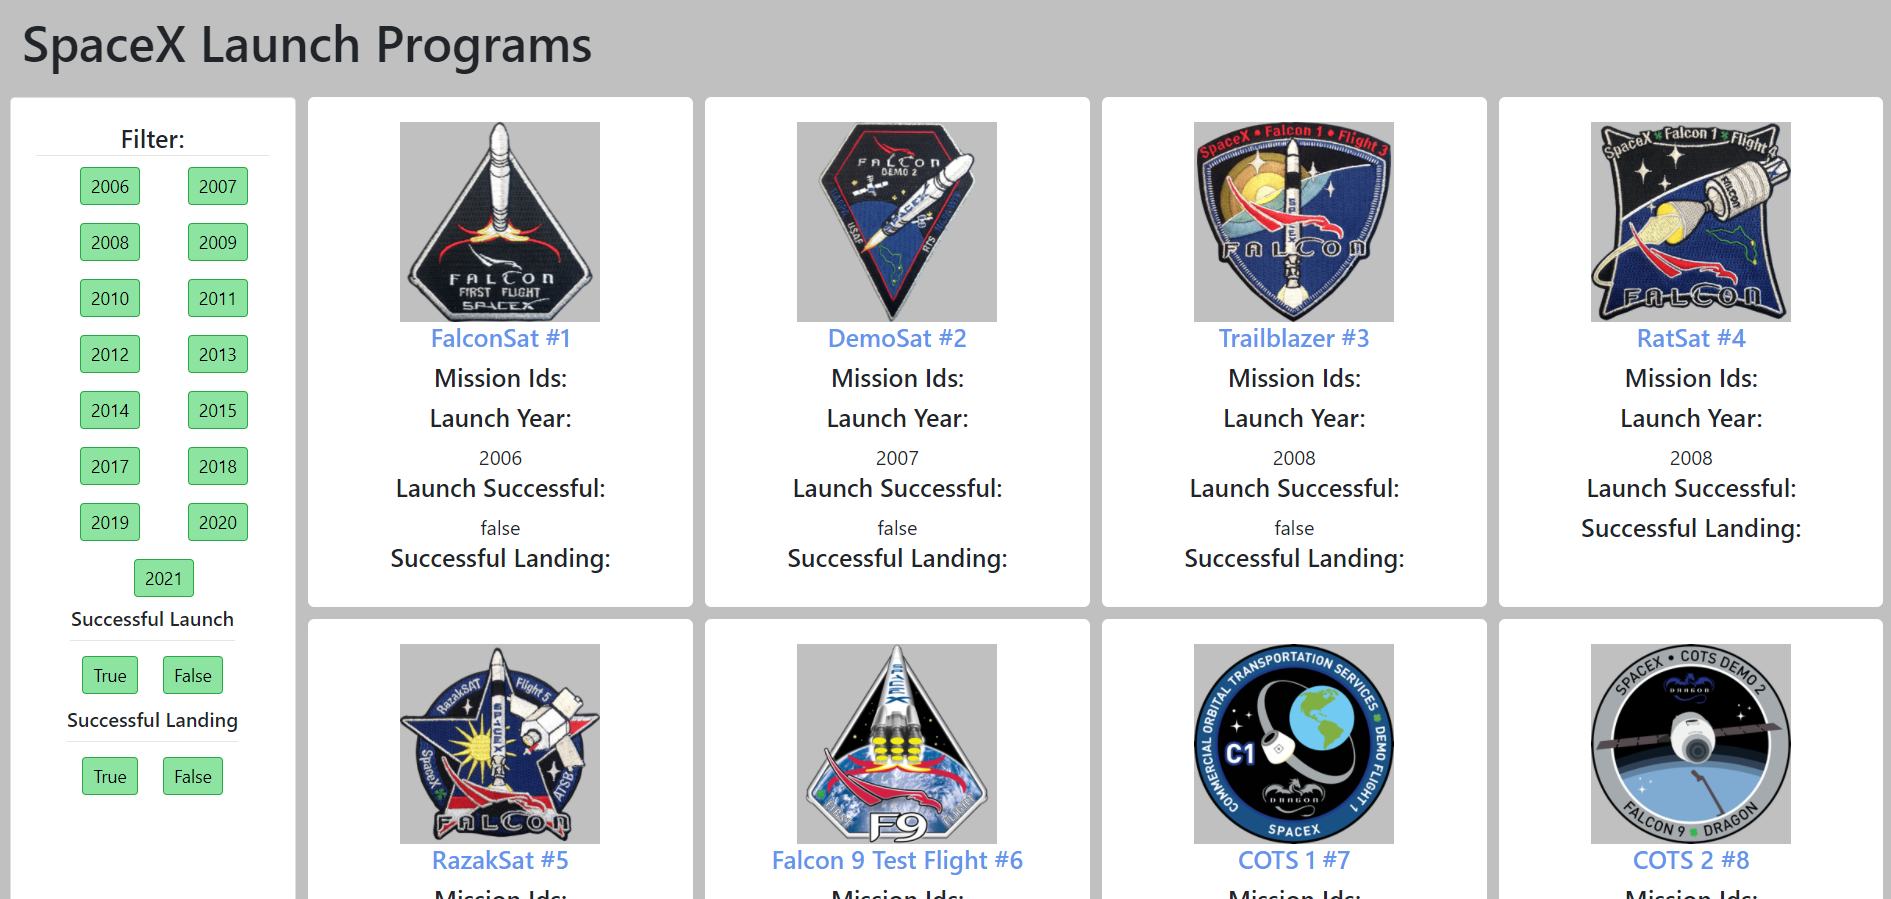
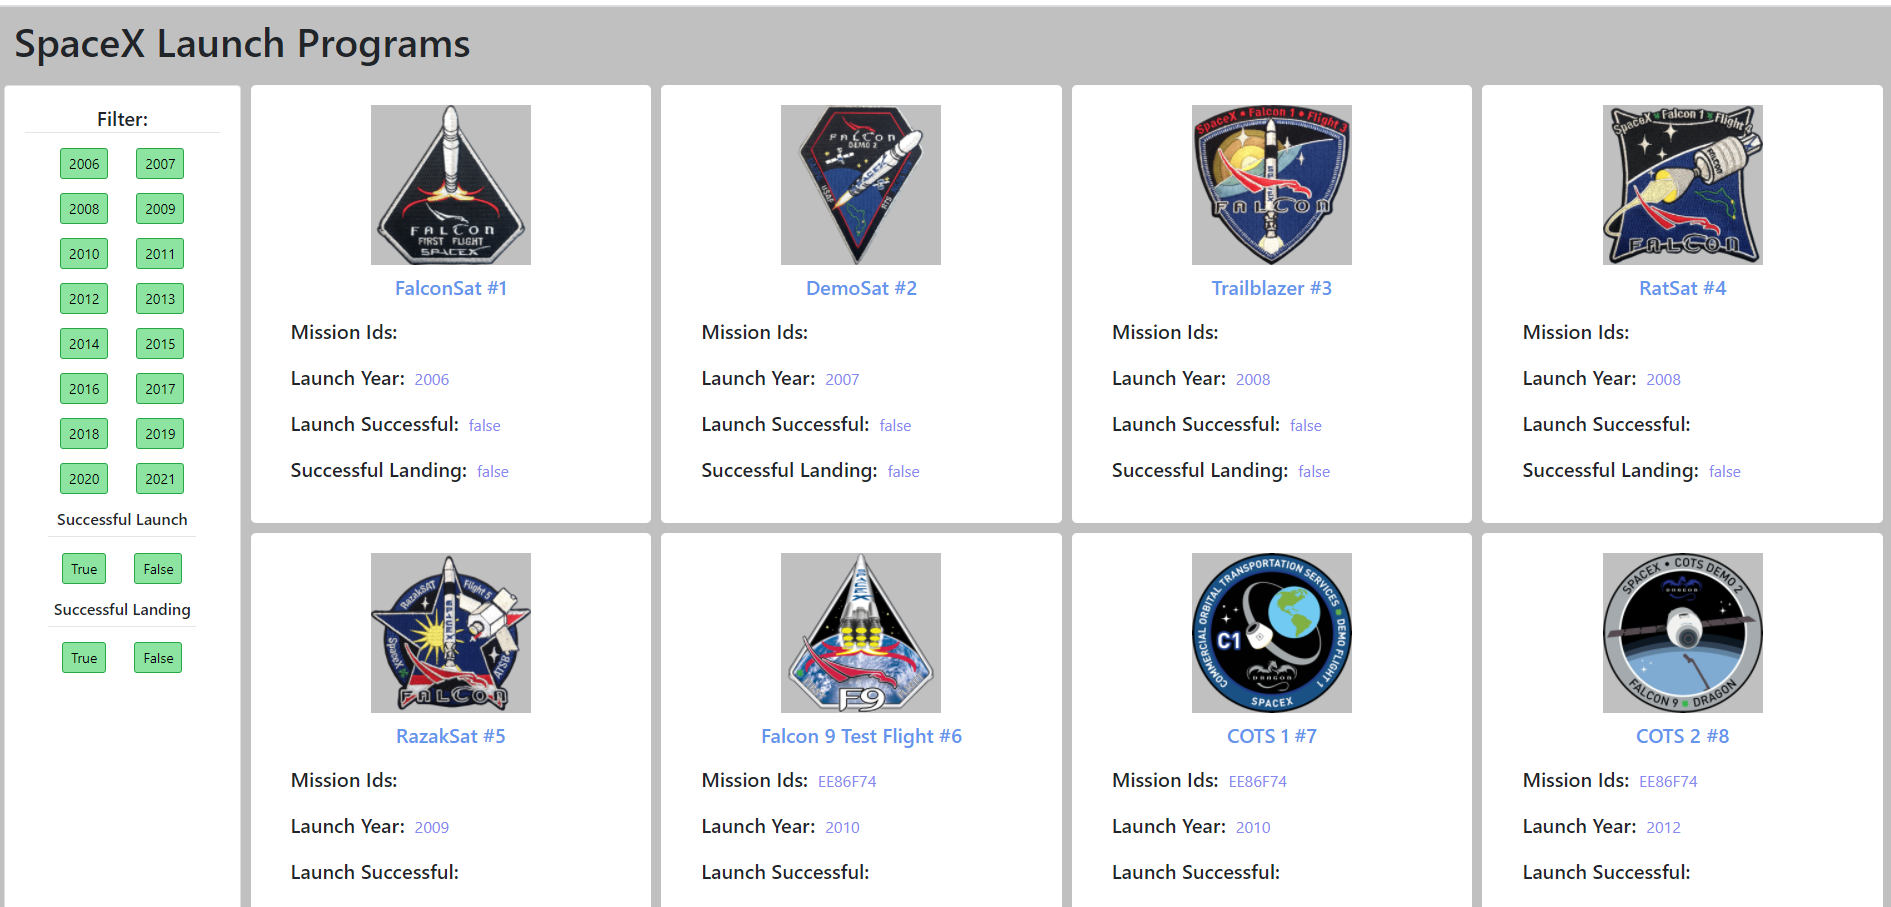
Updated UI and API Endpoints

diff --git a/client/src/components/HomePage/HomePage.jsx b/client/src/components/HomePage/HomePage.jsx
@@ -18,13 +18,14 @@ class HomePage extends Component {
         "2013",
         "2014",
         "2015",
+        "2016",
         "2017",
         "2018",
         "2019",
         "2020",
         "2021"
       ],
-      values: ["True", "False"],
+      values: ["true", "false"],
       isLoading: true,
     };
   }
@@ -43,7 +44,7 @@ class HomePage extends Component {
   yearsClicked = (event) => {
     let year = event.target.dataset.value;
     fetch(
-      `https://api.spacexdata.com/v3/launches?limit=100&amp;launch_success=true&amp;land_success=true&amp&launch_year=${year}`
+      `https://api.spacexdata.com/v3/launches?limit=100&launch_success=true&land_success=true&launch_year=${year}`
     )
       .then((res) => res.json())
       .then((data) => this.setState({ data }));
@@ -52,7 +53,7 @@ class HomePage extends Component {
   launchSuccess = (event) => {
     let value = event.target.dataset.value;
     fetch(
-      `https://api.spacexdata.com/v3/launches?limit=100&amp&launch_success=${value}`
+      `https://api.spacexdata.com/v3/launches?limit=100&launch_success=${value}`
     )
       .then((res) => res.json())
       .then((data) => this.setState({ data }));
@@ -61,7 +62,7 @@ class HomePage extends Component {
   landSuccess = (event) => {
     let value = event.target.dataset.value;
     fetch(
-      `https://api.spacexdata.com/v3/launches?limit=100&amp&land_success=${value}`
+      `https://api.spacexdata.com/v3/launches?limit=100&launch_success=true&land_success=${value}`
     )
       .then((res) => res.json())
       .then((data) => this.setState({ data }));
@@ -80,7 +81,7 @@ class HomePage extends Component {
                 <h5 className="card-title">Filter:</h5>
                 <hr />
                 <div className="row">
-                  <div>
+                  <div className="year-btn-section">
                     {years.map((year,i)=>(
                       <button
                       type="button"
@@ -105,7 +106,7 @@ class HomePage extends Component {
                           data-value={value}
                           onClick={this.launchSuccess}
                         >
-                          {value}
+                          {value.charAt(0).toUpperCase()+value.substring(1)}
                         </button>
                       ))}
                     </div>
@@ -123,7 +124,7 @@ class HomePage extends Component {
                           data-value={value}
                           onClick={this.landSuccess}
                         >
-                          {value}
+                          {value.charAt(0).toUpperCase()+value.substring(1)}
                         </button>
                       ))}
                     </div>

diff --git a/client/src/components/Card/Card.jsx b/client/src/components/Card/Card.jsx
@@ -4,28 +4,33 @@ import "./CardStyle.css";
 
 const Card = (props) => {
   let data = props.data;
+  console.log(data);
   return (
     <div className="card-container">
       <img src={data.links.mission_patch_small} style={{ width: "10rem",height:"10rem"}} alt="logo" />
+      <div className="info">
+        <div className="main-title">
       <h5 style={{ color: "cornflowerblue" }}>
         {data.mission_name} #{data.flight_number}
       </h5>
-      <div>
-        <h5>Mission Ids:</h5>
-        <span>{data.mission_id}</span>
       </div>
-      <div>
+      <div className="info-title">
+        <h5>Mission Ids:</h5>
+        <span>{data.mission_id[0]}</span>
+      </div>
+      <div className="info-title">
         <h5>Launch Year:</h5>
         <span>{data.launch_year}</span>
       </div>
-      <div>
+      <div className="info-title">
         <h5>Launch Successful:</h5>
-        <span>{data.launch_success || "false"}</span>
+        <span>{data.launch_success || "false" }</span>
       </div>
-      <div>
+      <div className="info-title">
         <h5>Successful Landing:</h5>
-        <span>{data.rocket.first_stage.cores[0].land_success}</span>
+        <span>{data.rocket.first_stage.cores[0].land_success || "false"}</span>
       </div>
+    </div>
     </div>
   );
 };

diff --git a/client/src/components/Card/CardStyle.css b/client/src/components/Card/CardStyle.css
@@ -9,8 +9,61 @@
 
 }
 
+.info-title span{
+  color: rgb(136, 136, 241);
+ }
+
+ 
 img{
   background-color: silver;
+}
+
+@media only screen and (min-device-width:701px) {
+  
+  .info{
+    text-align: left;
+  }
+
+  .info-title span{
+    color: rgb(136, 136, 241);
+   }
+  
+
+  .info-title{
+    margin: 20px;
+  }
+
+
+  .info-title h5{
+    display: inline;
+    margin-right: 10px;
+  }
+
+  .main-title{
+    text-align: center;
+    margin-top: 10px;
+  }
+  
+  .info{
+    text-align: left;
+  }
+  
+
+}
+
+
+@media only screen and (max-device-width:701px){
+
+  .main-title{
+    text-align: left;
+    margin: 15px;
+  }
+
+  .info{
+    text-align: left;
+  }
+
+
 }
 
 

diff --git a/client/src/components/HomePage/HomeStyle.css b/client/src/components/HomePage/HomeStyle.css
@@ -1,5 +1,6 @@
 .btn-style {
   margin: 7px 28px !important;
+  margin-bottom: 5px !important;
 } 
 
 .btn-values {
@@ -8,7 +9,8 @@
 
 .val-btn-section{
   margin: 0 auto !important;
-  margin-top: 15px;
+  margin-top: 15px !important;
+ 
 }
 
 .btn-success {
@@ -77,6 +79,9 @@ hr {
     margin-bottom: 10px;
   }
 
+ 
+
+
 }
 
 @media only screen and (min-device-width:701px) {
@@ -87,11 +92,12 @@ hr {
     color: black;
     background-color: #8de4a1;
     border-color: #28a745;
-    margin-right: 10px !important;
+    margin: 14px 14px 0px 14px !important;
   }
 
   .card-list{
     margin-left: 10px;  
     width: 100%;
   }
+
 }

diff --git a/Readme.md b/Readme.md
@@ -45,6 +45,8 @@ Client folder hierarchy :
 
 ## Project Overview
 
+![Screenshot](./screenshots/image1.PNG)
+
 * I have called 2 components namely HomePage and Footer in App.js
 *  HomePage Component : I am fetchng API data here and using state I am maintaining all Years and True/False values. Then I am passing this data to CardList Component.
 *  CardList Component : I am mapping all data provided by HomePage Component to Card Component to render it.
